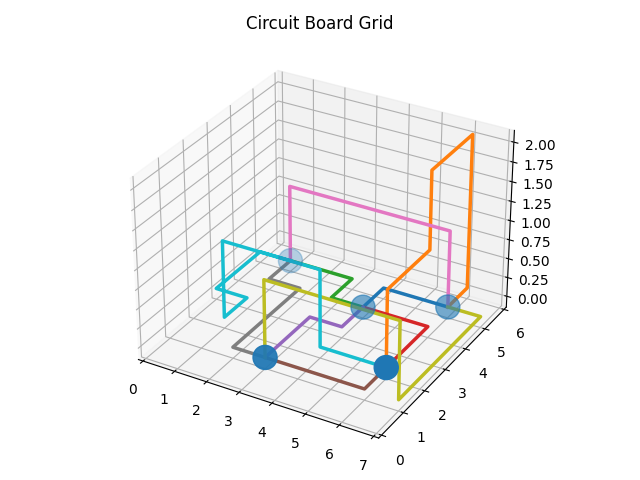
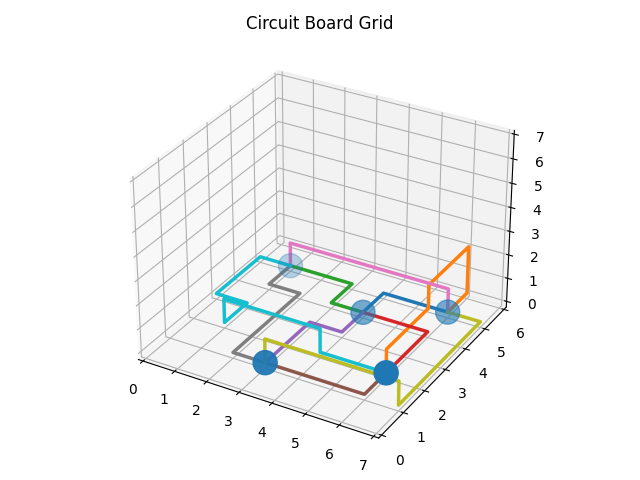
make README.md

diff --git a/code/main.py b/code/main.py
@@ -1,25 +1,22 @@
 """
 * main.py
-* Finds the best routes between chips using [insert algorithm here]
+* Finds the best routes between chips using a recursive A* and hill climber
 * 
 * Viola Koers 12213101
 * Finn Peranovic 12740454
 * Rachel de Haan 12423254
 """
-# from tracemalloc import start
-
-from code.classes import Line, Board
+from code.classes import Board
 from code.helper import sorted_manhattan_distance, get_board_size, not_found
 from code.loader import read_csv_chips, read_csv_netlist
 from code.output import create_grid, create_output
 from code.algorithm import find_route, hill_climber, closest_line_index
-from code.optimize import optimize
+from code.optimize import optimize, final_optimize
 
-recursion_counter = 0
 
 def find_routes(chips_dict, netlist, wind, up, down, board, options = 5, len_choices = 50, shuffles = 5):
     """
-    needs to return list of Line
+    Needs to return list of Line.
     """
     # get board size
     board_size = get_board_size(chips_dict)
@@ -50,9 +47,11 @@ def find_routes(chips_dict, netlist, wind, up, down, board, options = 5, len_cho
     # run hill climber
     netlist, board = hill_climber(netlist, chips_dict, board_size, board, options, len_choices, shuffles)
 
-    # optimize the lines again
-    for line in netlist:
-        optimize(line, chips_dict, board_size, board)
+    print("Let's try to optimize the output")
+
+    # keep optimizing until no more optimizations
+    final_optimize(line, netlist, chips_dict, board_size, board)
+
 
     # TODO run hill climber again
 

diff --git a/code/algorithm.py b/code/algorithm.py
@@ -10,8 +10,6 @@ import queue
 import copy
 import random
 
-from typing import List
-
 from code.helper import f_value, route_costs, manhattan_distance, search_range, find_best_child, random_combis
 from code.options import valid_directions
 
@@ -93,7 +91,6 @@ def hill_climber(netlist, chips_dict, board_size, board, options, len_choices, s
     First places all routes that initially could not be placed without overlap by allowing overlap.
     Mutates the final solution multiple times to try and decrease the netlist costs using a hill climber algorithm.
     """
-
     # find the routes that initially could not be solved without overlap
     netlist, board = solve_empty_routes(netlist, chips_dict, board_size, board)
 
@@ -117,7 +114,7 @@ def hill_climber(netlist, chips_dict, board_size, board, options, len_choices, s
 
 def solve_empty_routes(netlist, chips_dict, board_size, board):
     """
-    Solve all empty routes with overlap allowed using a*.
+    Solve all empty routes with overlap allowed using A*.
     """
     overlap = True
 
@@ -137,7 +134,6 @@ def find_new_line(netlist, index, chips_dict, board_size, board, wind, up, down)
     Finds a new line for start and end point given line.
     If the new line has a lower cost than the old line, it replaces the old line.
     """
-    
     line = netlist[index]
     
     # point of reverence

diff --git a/code/output.py b/code/output.py
@@ -7,8 +7,9 @@
 * Rachel de Haan 12423254
 """
 import matplotlib.pyplot as plt
-from code.helper import costs
 import csv
+
+from code.helper import costs
 
 
 def create_grid(chips_dict, netlist_routes, chip, net):
@@ -51,6 +52,7 @@ def create_grid(chips_dict, netlist_routes, chip, net):
 
     plt.xlim([min(x_list) - 1, max(x_list) + 1])
     plt.ylim([min(y_list) - 1, max(y_list) + 1])
+    ax.set_zticks([0, 1, 2, 3, 4, 5, 6, 7])
     ax.grid(visible=True, zorder=0)
     plt.title("Circuit Board Grid")
     plt.tight_layout()
@@ -59,9 +61,9 @@ def create_grid(chips_dict, netlist_routes, chip, net):
 
 def create_output(netlist_routes, chip, net, board):
     """
-    writes output to CSV file
+    Writes output to CSV file.
     """
-    with open(f"output/chip_{chip}/output.csv", "w", newline="") as f:
+    with open(f"output/chip_{chip}/net_{net}/output.csv", "w", newline="") as f:
         writer = csv.writer(f)
         writer.writerow(["net", "wires"])
 

diff --git a/run.py b/run.py
@@ -9,12 +9,7 @@
 import sys
 
 from code.main import main
-# --version
 
-
-# import code.main 
-# from code import main
-# from ../main import main
 
 def input_wind():
     """
@@ -33,7 +28,6 @@ def input_wind():
         return input_wind()
         
     
-
 def input_up():
     """
     Asks user for up input heuristic. Returns up heurisic.
@@ -99,7 +93,6 @@ def input_options():
             print("Has to be 1 or higher")
             input_options()
 
-        print(options)
         return options
 
     except ValueError:
@@ -151,6 +144,5 @@ options = input_options()
 len_choices = input_len_choices()
 shuffles = input_shuffles()
 
-print("options", options)
 # run main
 print("Not found, cost: ", main(sys.argv[1], sys.argv[2], wind, up, down, True, options, len_choices, shuffles))

diff --git a/code/optimize.py b/code/optimize.py
@@ -7,7 +7,25 @@
 * Rachel de Haan 12423254
 """
 from code.algorithm import find_route 
-from code.helper import manhattan_distance, route_costs
+from code.helper import manhattan_distance, route_costs, costs
+
+def final_optimize(line, netlist, chips_dict, board_size, board):
+    """
+    Optimizes the board until there is differences in costs
+    """
+    old_cost = costs(board, netlist)
+
+    for line in netlist:
+        optimize(line, chips_dict, board_size, board)
+
+    new_cost = costs(board, netlist)
+
+    while new_cost < old_cost:
+        old_cost = new_cost
+        for line in netlist:
+            optimize(line, chips_dict, board_size, board)
+        
+        new_cost = costs(board, netlist)
 
 
 def optimize(line, chips_dict, board_size, board, overlap = False):

diff --git a/try_all.py b/try_all.py
@@ -14,7 +14,6 @@ def try_all():
     """
     Runs all netlists for each combination of experimental values.
     """
-
     # try different variable values
     wind = [2]
     up = [0]

diff --git a/README.md b/README.md
@@ -1,79 +1,177 @@
-# Chips and Circuits
+# **Chips and Circuits**
 Chips kunnen worden gebruik voor het vervullen van verschillende functies in apparaten zoals computers en bijvoorbeeld telefoons. Chips zijn meestal logisch ontworpen en getransformeerd naar een lijst (netlist) met koppelbare poorten (gates). In de praktijk is het leggen van de bedrading (vanaf nu 'routes' genoemd) tussen de chips een moeilijke en kostbare taak. De manier waarop de routes tussen de chips worden gelegd is van groot belang. Kortere routes leiden tot minder kosten en snellere circuits, terwijl langere routes leiden tot hogere kosten en langzamere circuits. Kruisingen van routes leiden tot een grote verhoging van de kosten. 
 
-In dit project zijn de chips zelf al geplaatst en houden wij ons alleen bezig met de routes tussen de chips op een zo kort mogelijk manier te leggen met zo weinig mogelijk kruisende routes, om dus zo weinig mogelijk kosten te genereren. Hieronder is een formule te zien hoe de kosten in het circuit worden berekend, waarbij *n* stukje lijn tussen 2 coördinaten voorstelt en *k* het aantal kruisingen tussen routes voorsteld. Het is dus de bedoeling om alle chips met elkaar te verbinden met zo weinig mogelijk kosten:  
+In dit project zijn de chips zelf al geplaatst en houden wij ons alleen bezig met de routes tussen de chips op een zo kort mogelijk manier te leggen met zo weinig mogelijk kruisende routes, om dus zo weinig mogelijk kosten te genereren. Bij het leggen van de routes wordt er rekening gehouden met een aantal restricties. De route mag zichzelf niet kruizen en de route mag niet door een andere chip heen lopen. Het is de bedoeling om alle chips met elkaar te verbinden met zo weinig mogelijk kosten. Hieronder is een formule te zien hoe de kosten in het circuit worden berekend, waarbij *n*  een stukje lijn tussen 2 coördinaten voorstelt en *k* het aantal kruisingen tussen routes voorstelt.
 
 ```C = n + 300 * k```  
 
-<plaatje>
+Het bord is 3 dimensionaal. De hoogte is altijd 8. De niveaus lopen van 0, waar de chips op liggen, tot en met niveau 7. De lengte en breedte hangen af van de coördinaten van de chips. Hieronder is een voorbeeld van een opgeloste netlist te zien (netlist 3):  
 
-## Aan de Slag
-### Vereisten
+![](doc/chip_0_net3.png)
+
+## **Aan de Slag**
+### **Vereisten**
 Deze codebase is volledig geschreven in [Python3.7.3](https://www.python.org/downloads/). In requirements.txt staan alle benodigde packages om de code succesvol te draaien. Deze zijn gemakkelijk te installeren via pip d.m.v. de volgende instructie:  
 
 ```pip install -r requirements.txt```
 
-### Structuur
+### **Structuur**
 * **code:** 
-  * .py bestanden 
+  * .py-bestanden 
 * **data:**
   * **chip_0:**
-    * netlist .csv bestanden en print .csv bestanden 
+    * netlist.csv-bestanden en print.csv-bestanden 
   * **chip_1:**
-    * netlist .csv bestanden en print .csv bestanden 
+    * netlist.csv-bestanden en print.csv-bestanden 
   * **chip_2:**
-    * netlist .csv bestanden en print .csv bestanden
+    * netlist.csv-bestanden en print.csv-bestanden
 * **output:**
   * **chip_0:**
-    * output .csv bestand netlist 1-3
+    * output.csv-bestand van netlist 1-3
   * **chip_1:**
-    * output .csv bestand netlist 4-6
+    * output.csv-bestand van netlist 4-6
   * **chip_2:**
-    * output .csv bestand 7-9
+    * output.csv-bestand van 7-9
   * **optimize:** 
-    * output .csv bestand 
+    * output.csv-bestand 
   * **plots:**
-    * plot .png files
+    * plot.png-bestanden
   * README.md
   * requirements.txt
   * run.py (lost de gewenste netlist op)
   * try_all.py (lost alle netlists op)  
 
- De netlist .csv bestanden bevatten de info welke chips met elkaar verbonden moeten worden. De print .csv bestanden bevatten de x,y coordinaten van de chips in de netslisten. De output .csv bestanden bevatten de coordinaten van de routes die zijn gelegd. En de plot .png bestanden bevatten de plots die bij deze routes horen.
+ De netlist.csv-bestanden bevatten de informatie welke chips met elkaar verbonden moeten worden. De print.csv-bestanden bevatten de x,y-coordinaten van de chips in de netslisten. De output.csv-bestanden bevatten de coordinaten van de routes die zijn gelegd. En de plot.png-bestanden bevatten de plots die bij deze routes horen.
 
 
-### Testen
+### **Testen**
 Om het programma te gebruiken, is daar de volgende instructie voor nodig:  
 
 ```python run.py {chip} {netlist}```
 
 
-## Algoritme
-### Random
-Eerste versie. Kiezen elke keer random een van de mogelijkheden om naar toe te gaan. De mogelijkheden zijn inprinicipe naar het noorden, oosten, zuiden, westen, boven en beneden. Waneer er op een van de mogelijkheden een andere chip ligt of als dat de plek is waar de route net vandaan kwam, wordt deze mogelijkheid uit de lijst gehaald. In deze versie is het dus nog mogelijk voor routes omzichzelf en andere routes te kruizen.
+## **Algoritmes**
+### **Random**
+Het eerste algoritme wat voor dit project is gebruikt is het random algoritme. Voor elk huidige punt op het grid wordt een lijst met mogelijkheden gemaakt welke richting de route op kan. Wanneer er op een van de mogelijkheden een andere chip ligt of als dat de plek is waar de route net vandaan kwam, wordt deze mogelijkheid uit de lijst gehaald. Het random algoritme kiest een random (volgend) punt uit deze lijst met keuzes en probeert zo alle routes te leggen. In deze versie is het dus nog mogelijk voor routes om zichzelf en andere routes te kruisen.  
 
-### Depth first and breath first search
-Om aan het random algortime iets meer restricties toe te voegen, hebben we eerste een depth first search algortime gebruikt. Hierbij werden de restricties dat routes zichzelf en andere routes niet mogen kruizen toegevoegd. De netlist werd echter snel te groot om een depth first search te kunnen toepassen. Daarom hebben we deze omgeschreven naar een breath first search. Deze zal natuurlijk altijd de korste route vinden, nooit een willekeurige route. Met een maximale diepte voor de breath search konden de eerste paar routes wel opgelost worden, maar daarna werden de routes toch te lang en ingewikkeld. Ook werden er routes ingesloten door eerder gelegde routes, waardoor het uberhaupt niet meer mogelijk was voor deze routes om de eind chip te bereiken. Om dit een klein beetje op te lossen hebben we de volgorde waarin de routes gelegd worden aangepast. De routes werden neergelegd op volgorde van de manhattan distance tussen de begin- en eindchip. De route tussen de begin- en eindchip met de korste manhattan distance wordt als eerste gelegd. Ook met deze toevoeging, gebeurd het dat routes die later gelegd worden ingesloten worden door eerder gelegde routes. Ook kan dit algoritme erg lang duren.
+*Dit algoritme is te vinden in de branche "random"*
 
-### A*
+### **Depth First Search (DFS) en Breadth First Search (BFS)**
+Om aan het random algoritme iets meer restricties toe te voegen, hebben we eerst een DFS-algoritme gebruikt. Hierbij werden de restricties dat routes zichzelf en andere routes niet mogen kruisen toegevoegd. Dat laatste mag volgens de casus wel, maar is dusdanig ongunstig dat we het in eerste instantie verboden hebben. De netlist werd echter snel te groot om een DFS te kunnen toepassen. Daarom hebben we deze omgeschreven naar een BFS. Deze zal natuurlijk altijd de kortste route vinden, nooit een willekeurige route. Met een maximale diepte voor de BFS konden de eerste paar routes wel opgelost worden, maar daarna werden de routes toch te lang en ingewikkeld. Ook werden er routes ingesloten door eerder gelegde routes, waardoor het überhaupt niet meer mogelijk was voor deze routes om de eindchip te bereiken. Om dit een klein beetje op te lossen hebben we de volgorde waarin de routes gelegd worden aangepast. De routes werden neergelegd op volgorde van de Manhattan distance tussen de begin- en eindchip. De route tussen de begin- en eindchip met de kortste Manhattan distance wordt als eerste gelegd. Ook met deze toevoeging, gebeurd het dat routes die later gelegd worden ingesloten worden door eerder gelegde routes. Ook kan dit algoritme erg lang duren.
 
-#### Extra cost
+*Deze algoritmes zijn te vinden in de branches "dfs" en "bfs"*
+
+### **A\***
+Om het algoritme iets sneller te laten werken, hebben we het BFS algoritme omschreven naar een A*-algoritme. Ook hier leggen we de routes op volgorde van de kleinste naar de grootste manhattan distance. Voor de heurustiek gebruiken we de Manhattan distance. Dit werkte vrij goed. Wat alleen opviel, is dat routes vrij weinig gebruik maakte van andere lagen, waardoor het op laag 0 erg vast kwam te liggen. Dit zorgde er voor dat er vrij veel routes op het laatste nog steeds niet gelegd worden. Er was in die gevallen simpelweg geen mogelijkheid om van de begin- naar de eindchip te komen zonder andere routes te kruisen. 
+
+#### **Extra cost**
+Het hierboven omschreven probleem hebben we aangepakt door de herustiek aan te passen. Eerst gebruikten we dus de Manhattan distance, maar aangezien alle chips op de nulde verdieping liggen, is het nooit voordelig om naar een andere laag te gaan. Daarom hebben we bij de Manhattan distance een extra koste toegevoegd. Op dezelfde laag blijven geeft hogere extra kosten dan wanneer een route naar een andere laag gaat. Toen we dit hadden geïmplementeerd en voor verschillende extra kosten hadden getest, werden er veel meer routes gevonden. De optimale extra kosten bleek voor op dezelfde laag blijven 2, voor omhoog gaan 0 en voor naar beneden gaan 1. Zie **Experiment** voor meer details.
+
+| Netlist  | A*       | A* met verbeterde heuristiek |
+| -------- | -------- | ---------------------------- |
+| 1        | 0        | 0      |
+| 2        | 0        | 1      |
+| 3        | 1        | 1      |
+| 4        | 8        | 4      |
+| 5        | 17       | 12     |
+| 6        | 25       | 17     |
+| 7        | 22       | 24     |
+| 8        | 27       | 23     |
+| 9        | 43       | 30     |  
+
+*Niet gevonden routes per netlist. Hoe hoger het netlist nummer, hoe ingewikkelder en groter de netlist*
+
+Deze oplossing geeft wel als probleem dat routes vaak heen en weer gaan en dus niet altijd de kortste route nemen. De routes nemen de vorm van 'koraal' aan, zoals in de afbeelding hieronder te zien:
+
+![Figure](doc/koraal.png)
+
+#### **Optimize**
+Om het koraalprobleem op te lossen, gooien we elke route wanneer alle routes geplaatst zijn door een functie genaamd "optimize". Deze functie begint aan de uiteindes van de route (dus bij de begin- en eindchip) en werkt naar binnen toe. Elke keer probeert hij tussen de twee punten op de route te kijken of er een efficientere route tussen die twee punten is. Mocht dat zo zijn, dan wordt dat stuk van de oude route vervangen door een nieuwe route.
+
+#### **Recursief**
+Om ons alogoritme meer routes te laten vinden, hebben we een recursieve functie gemaakt. Wanneer er een route niet geplaatst kan worden, neemt deze de route die volgende de manhattan distance zo ver mogelijk gekomen is. Vervolgens gaat hij opzoek naar lijnen die tussen het laatste punt van deze route en het eindpunt liggen. Dit gebeurd op alle lagen. De eerste (en daarmee de dichtbijzijnste) route die vanaf het laatste punt tussen het laatste punt en het eindpunt gevonden wordt, wordt verwijderd. De lijn die eerst helemaal niet gelegd kon worden probeert hij daarna opnieuw te plaatsen met A*. Lukt dit niet, wordt er weer boven aan dit verhaal begonnen. Nadat deze lijn geplaatst is, wordt de verwijderde lijn opnieuw geplaatst. Ook wanneer dit niet lukt, wordt er weer bovenaan dit verhaal begonnen.
+
+```
+def recursieve_functie(a,b):
+  vind een route r1 van punt a naar b met behulp van A*
+
+  als dit lukt:
+    return r1
+  
+  als dit niet lukt:
+    neem de route r1 die het verst gekomen 
+    neem het laatste punt op deze route r1
+    zoek naar routes tussen dit laatste punt en b_r1
+    
+    als er een route r2 gevonden is:
+      verwijder route r2
+      recursieve_functie(a_r1, b_r1)
+      recursieve_functie(a_r2, b r2)    
+```    
+
+Voor het optimale resultaat, roepen we tussendoor weer de functie optimize aan voor een specifieke lijn. Uiteindelijk konden door deze methode weer meer routes gelegd worden, zoals in de tabel hieronder te zien is:
+
+| Netlist  | A*       | A* met verbeterde heuristiek | A* met optimize en recursieve functie |
+| -------- | -------- | ---------------------------- | ---------------------------- |
+| 1        | 0        | 0      | 0  |
+| 2        | 0        | 1      | 0  | 
+| 3        | 1        | 1      | 0  |
+| 4        | 8        | 4      | 3  |
+| 5        | 17       | 12     | 11 |
+| 6        | 25       | 17     | 16 |
+| 7        | 22       | 24     | 20 |
+| 8        | 27       | 23     | 21 |
+| 9        | 43       | 30     | 27 |
+
+#### **Iteratief**
+Voor we een recursieve functie hadden, hebben we ook nog een andere manier geprobeerd om het algoritme te verbeteren. Dit deden we iteratief. Wanneer we een route vonden, werd er gekeken of deze significant langer was dan de Manhattan distance. De waarde die we voor 'significant groter' gekozen hadden was 1.5 keer groter. Wanneer zo veel mogelijk routes met A* met verbetere heuristiek gelegd waren, werd een kopie van het huidige bord gemaakt. Daarna werden deze routes verwijderd van het gekopiëerde bord en opnieuw neergelegd in een willekeurige volgorde. Als d
+
+*Deze versie van het A\* algoritme is te vinden in de branche "astar-optimize-iterative"*
 
 
-#### Iterative
+### **Hill climber**
+Het vorige beste algoritme (Recursief) gaf nog onafgemaakte routes terug voor netlist 4 tot en met 9. Hierdoor hebben we nu een recursief A* algoritme gemaakt die als eerst zoveel mogelijk routes probeert te vinden, en vervolgens kruisingen toestaat voor de routes die nog niet zijn gevonden. Deze routes worden eerst gelegd langs de kortste Manhattan distance, waarna de hill climber wordt toegepast om de totale kosten te verminderen. 
 
-#### Recursief
+De gebruiker bepaalt een aantal variabelen in de hill climber. De hill climber gaat alle routes nog een keer af. Dit wordt X keer gedaan, elke keer met een geshuffelde volgorde van de netlist. Dan wordt per loop Y keer een willekeurig gewicht tussen 0 en Z gegeven aan de richtingen (windstreken, omhoog en naar beneden) in de heuristiek van A*, waarbij een hoger gewicht een stap met die richting 'duurder' maakt. De enige voorwaarde is dat het gewicht voor omhoog niet het hoogste gewicht mag zijn, omdat dit slechte scores gaf. Dan wordt voor elke route in de netlist een nieuwe route onderzocht volgens A* met de opgeslagen gewichten. Als de netlist goedkoper is geworden, wordt de oude route vervangen door de nieuwe.
 
-#### Optimize
+| Netlist  | Versie A Kosten | Versie B Kosten |
+| -------- | -------- | -------- |
+| 1        | 22       | 22     |
+| 2        | 43       | 43     |
+| 3        | 64       | 64     |
+| 4        | 10853    | 6987   |
+| 5        | 21435    | 14269  |
+| 6        | 52181    | 38187  |
+| 7        | 84732    | 47322  |
+| 8        | 76926    | 44012  |
+| 9        | 114987   | 74295  |
 
-### Hill climber
+
+## **Experiment**
+Om te testen welke waarden voor verschillende gebruikte variabelen optimaal zijn om in de beste versie de kosten nog verder te verlagen, zijn verschillende combinaties getest.
+De variabelen waar naar gekeken is zijn de strafkosten voor de richtingen (de windrichtingen en omhoog en naar beneden, in de code 'wind', 'up' en 'down'), het bereik van de willekeurige waarden hiervoor bij de hill climber ('options'), het maximale aantal verschillende combinaties voor deze strafkosten ('len_choices') en hoe vaak dit alles herhaald moet worden met een willekeurige legvolgorde van de routes ('shuffles').
 
 
-## Autheurs
+## **Resultaten**  
+random te vaak runnen voor goede resultaten
+DFS doet te te lang en sloot zichzelf in
+BFS deed te lang, ging wel voor kortste route maar sloot zichzelf ook in
+A* ook vaak in de knoop want bleef vaak op niveau 0
+extra kosten 201 gaf wel betere oplossingen maar loste niet meer netlists op
+optimize maakte bestaande routes korter nadat de routes gelegd werd wat een kleine winst in de kosten opleverde
+recursieve functie loste netlist 3 op en verbeterde andere netlists
+voor hillclimber werden overige routes volgens Manhattan distance gelegd, daarna hillclimber, die leverde de volgende kosten op:
+
+
+
+## **Idee voor in de toekomst**
+Op dit moment is er nog veel variatie in de resultaten. Het is daarom wellicht een goed idee om uit te zoeken of er een patroon is bij welke random configuraties in de hill climber de beste resultaten gevonden worden.
+
+## **Autheurs**
 * Rachel de Haan
 * Viola Koers
 * Finn Peranovic
 
-## Dankwoord
-* StackOverflow
-* minor programmeren van de UvA
+## **Dankwoord**
+* Onze TA's Marleen en Pamela en alle andere TA's die ons geholpen hebben
+* minor programmeren van de UvA (2021-2022)
